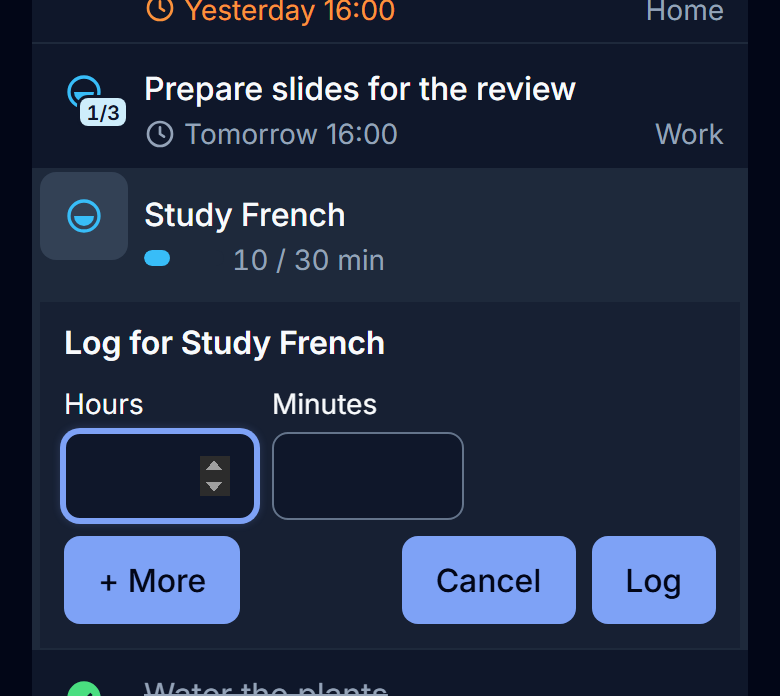
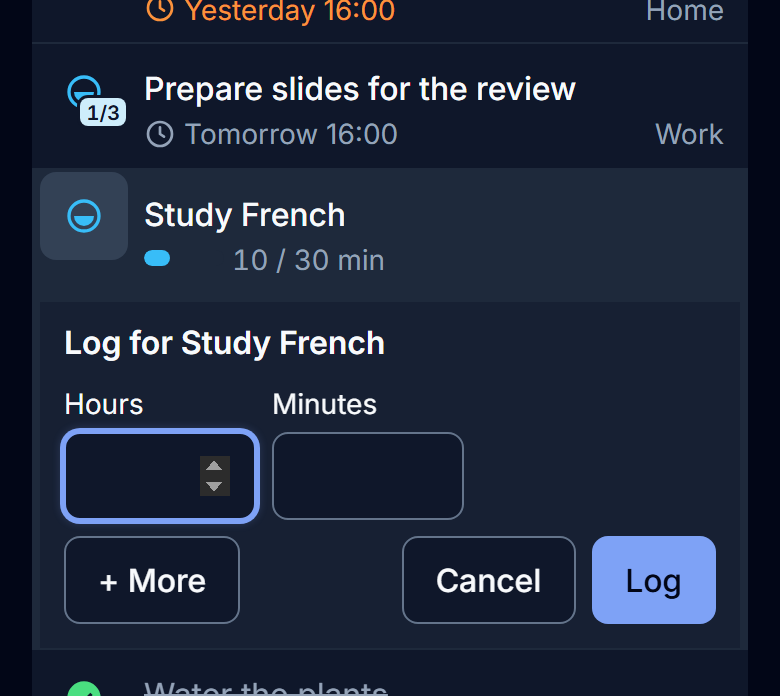
Put a shared list's owner under its description, and restyled and spaced the quick log's buttons.

Changed region(s): [[0.0615, 0.7543, 0.3077, 0.9052], [0.4923, 0.7543, 0.7385, 0.9052]]

diff --git a/tests/e2e/list.spec.js b/tests/e2e/list.spec.js
@@ -518,6 +518,41 @@ test.describe('List screen', () => {
 });
 
 
+test('the quick log fills only Log and Log anyway, and keeps its question buttons apart under the question (TSK-21)', async ({ page }) => {
+  const problems = watch(page);
+  const listId = await openList(page);
+  await page.evaluate(async (id) => {
+    const { openStore } = await import('/js/store/db.js');
+    const store = await openStore({ broadcast: true });
+    const task = await store.createTask({ description: 'Sport', 'due-time': new Date(Date.now() + 20 * 3_600_000).toISOString() }, { lists: [id] });
+    await store.updateRules(task.id, { 'goal-direction': 'at-least', 'goal-measure': 'time', 'goal-target': 3600 });
+    store.close();
+  }, listId);
+  const row = page.locator('.list-view .task-row', { hasText: 'Sport' });
+  const quick = row.locator('.quick-log');
+  const fill = (locator) => locator.evaluate((node) => getComputedStyle(node).backgroundColor);
+  for (const viewport of [{ width: 360, height: 740 }, { width: 1280, height: 800 }]) {
+    await page.setViewportSize(viewport);
+    await row.getByRole('button', { name: /^Log time for Sport/ }).click();
+    const main = await fill(quick.getByRole('button', { name: 'Log', exact: true }));
+    for (const name of ['+ More', 'Cancel']) {
+      expect(await fill(quick.getByRole('button', { name, exact: true })), name).not.toBe(main);
+    }
+    await quick.getByLabel('Hours').fill('13');
+    await quick.getByRole('button', { name: 'Log', exact: true }).click();
+    const change = quick.getByRole('button', { name: 'Change', exact: true });
+    const anyway = quick.getByRole('button', { name: 'Log anyway' });
+    await expect(anyway).toBeVisible();
+    expect(await fill(change)).not.toBe(await fill(anyway));
+    const [question, first, second] = await Promise.all([quick.locator('.quick-log__question'), change, anyway].map((part) => part.boundingBox()));
+    expect(first.y, 'the buttons sit under the question').toBeGreaterThanOrEqual(question.y + question.height);
+    expect(second.x - (first.x + first.width), 'a gap between the buttons').toBeGreaterThanOrEqual(8);
+    await quick.getByRole('button', { name: 'Cancel', exact: true }).click();
+    await expect(quick).toHaveCount(0);
+  }
+  expect(problems).toEqual([]);
+});
+
 test('logs from a row past an at-most limit, shows the marks, and undoes the entry from the toast (TSK-4, TSK-21, TSK-22)', async ({ page }) => {
   const problems = watch(page);
   const listId = await openList(page);

diff --git a/src/js/views/quick-log.js b/src/js/views/quick-log.js
@@ -109,11 +109,11 @@ function fieldOf(doc, part, text, input) {
  * @param {Document} doc the document
  * @param {string} action the action name
  * @param {string} text the text
- * @param {string} [kind] `primary` for the main button
+ * @param {'primary'|'secondary'} kind `primary` for a button that logs, `secondary` for any other
  * @returns {HTMLButtonElement} the button
  */
-function buttonOf(doc, action, text, kind = '') {
-  const button = make(doc, 'button', `button${kind ? ` button--${kind}` : ''}`, text);
+function buttonOf(doc, action, text, kind) {
+  const button = make(doc, 'button', `button button--${kind}`, text);
   button.type = 'button';
   button.dataset.action = action;
   return button;
@@ -169,11 +169,11 @@ export function createQuickLog({ document: doc = globalThis.document, descriptio
   confirm.setAttribute('role', 'alert');
   confirm.hidden = true;
   const question = make(doc, 'p', 'quick-log__question');
-  confirm.append(question, buttonOf(doc, 'change', STRINGS.change), buttonOf(doc, 'anyway', STRINGS.anyway, 'primary'));
-  const more = buttonOf(doc, 'more', STRINGS.more);
+  confirm.append(question, buttonOf(doc, 'change', STRINGS.change, 'secondary'), buttonOf(doc, 'anyway', STRINGS.anyway, 'primary'));
+  const more = buttonOf(doc, 'more', STRINGS.more, 'secondary');
   const actions = make(doc, 'div', 'quick-log__actions');
   const log = buttonOf(doc, 'log', STRINGS.log, 'primary');
-  actions.append(more, buttonOf(doc, 'cancel', STRINGS.cancel), log);
+  actions.append(more, buttonOf(doc, 'cancel', STRINGS.cancel, 'secondary'), log);
   element.append(title, time, amountPart, check, labelPart, error, confirm, actions);
 
   /** True while a posted entry awaits the store, so no path posts a second one. */

diff --git a/tests/e2e/sharing.spec.js b/tests/e2e/sharing.spec.js
@@ -134,6 +134,23 @@ test('Share list opens the list editor at its Sharing section (SHR-1)', async ({
   await expect(page.locator('[data-section="sharing"]').getByRole('button', { name: 'Invite' })).toBeVisible();
 });
 
+test('a list shared with the user names its owner under the description, on a phone and a desktop (SHR-3)', async ({ page }) => {
+  await connect(page, {
+    lists: [list(FAMILY, 'Family', { description: 'Chores and repairs around the house', owner: SAM, role: 'viewer', sharing: [] })],
+    tasks: [task('t1', 'Plan the trip', { 'owner-id': 9 })],
+    memberships: [member(FAMILY, 't1')],
+  });
+  await open(page, `#/lists/${FAMILY}`);
+  const parts = ['.list-view__description', '.list-view__owner'].map((name) => page.locator(name));
+  for (const viewport of [{ width: 360, height: 740 }, WIDE]) {
+    await page.setViewportSize(viewport);
+    await expect(parts[1]).toHaveText('Shared by Sam Roe · Viewer');
+    const [description, owner] = await Promise.all(parts.map((part) => part.boundingBox()));
+    expect(owner.y, 'under the description').toBeGreaterThanOrEqual(description.y + description.height);
+    expect(owner.x, 'from the same edge').toBe(description.x);
+  }
+});
+
 test('a viewer sees the list read-only, without edit, move, or delete controls (SHR-3, SHR-4)', async ({ page }) => {
   await connect(page, {
     lists: [list(FAMILY, 'Family', { owner: SAM, role: 'viewer', sharing: [] })],

diff --git a/docs/design/ui-wireframes.html b/docs/design/ui-wireframes.html
@@ -749,8 +749,8 @@ function quickLogForm(o) {
     + `<div class="quick-log__part quick-log__time">${input('Hours', confirm ? '13' : '0')}${input('Minutes', confirm ? '0' : '45')}</div>`
     + '<p class="quick-log__error field__error" role="status"></p>'
     + (confirm
-      ? `<div class="quick-log__confirm" role="alert"><p class="quick-log__question">Log 13 h 0 min? That is more than 12 hours.</p>${button('Change')}${button('Log anyway', 'button--primary')}</div>`
-      : `<div class="quick-log__actions">${button('+ More')}${button('Cancel', '', 'data-wf-go="all-tasks"')}${button('Log', 'button--primary', 'data-wf-go="all-tasks/ticked"')}</div>`)
+      ? `<div class="quick-log__confirm" role="alert"><p class="quick-log__question">Log 13 h 0 min? That is more than 12 hours.</p>${button('Change', 'button--secondary')}${button('Log anyway', 'button--primary')}</div>`
+      : `<div class="quick-log__actions">${button('+ More', 'button--secondary')}${button('Cancel', 'button--secondary', 'data-wf-go="all-tasks"')}${button('Log', 'button--primary', 'data-wf-go="all-tasks/ticked"')}</div>`)
     + '</form>';
 }
 

diff --git a/tests/unit/quick-log.test.js b/tests/unit/quick-log.test.js
@@ -106,6 +106,15 @@ describe('createQuickLog', () => {
     await vi.waitFor(() => expect(submit).toHaveBeenCalledWith({ 'time-spent-seconds': 50_400 }));
   });
 
+  it('styles only Log and Log anyway as main actions, and the other buttons as secondary ones', () => {
+    const quick = open();
+    const kinds = Object.fromEntries([...quick.element.querySelectorAll('button')]
+      .map((button) => [button.dataset.action, [...button.classList].filter((name) => name.startsWith('button--'))]));
+    expect(kinds).toEqual({
+      change: ['button--secondary'], anyway: ['button--primary'], more: ['button--secondary'], cancel: ['button--secondary'], log: ['button--primary'],
+    });
+  });
+
   it('posts one entry while a request is pending, whatever the repeated Enter or Log anyway presses', async () => {
     let finish;
     submit = vi.fn(() => new Promise((done) => {

diff --git a/src/css/app-components.css b/src/css/app-components.css
@@ -584,6 +584,19 @@
   margin: 0;
 }
 
+/* The question of a long duration takes its own line, over its two buttons at the end of the next. */
+.quick-log__confirm {
+  display: flex;
+  flex-wrap: wrap;
+  gap: var(--space-2);
+  justify-content: flex-end;
+}
+
+.quick-log__question {
+  flex: 0 0 100%;
+  margin: 0;
+}
+
 .quick-log__error:empty {
   display: none;
 }

diff --git a/src/service-worker.js b/src/service-worker.js
@@ -20,7 +20,7 @@
  * of the vendored design system, it requires exactly the files that css/style.css and the app modules load.
  */
 
-const VERSION = '2026-11-28.29';
+const VERSION = '2026-11-28.30';
 const CACHE = `todos-shell-${VERSION}`;
 const PREFIX = 'todos-shell-';
 const HTML_ENTRIES = ['./', 'index.html'];

diff --git a/src/css/views.css b/src/css/views.css
@@ -1223,6 +1223,10 @@
 }
 
 /* A list shared with the user names its owner and the user's role under the description. */
+.list-view > .view-header {
+  flex-wrap: wrap;
+}
+
 .list-view__owner {
   flex: 1 1 100%;
   order: 1;

diff --git a/docs/specs/visual-style-guide.md b/docs/specs/visual-style-guide.md
@@ -287,6 +287,8 @@ App states use attributes the app sets, such as `data-status` and `aria-current`
   - `.task-row__pace` reads "behind pace" and `.task-row__failed` reads "Failed", both in `--color-danger`.
   - `.task-row__start` shows the start of an upcoming row, such as "Starts tomorrow 07:00".
   - The quick log, `.quick-log`, is a form inside the row that wraps onto its own line under the status button and text.
+    Only Log and Log anyway are `button--primary`; + More, Cancel, and Change are `button--secondary`.
+    The question of a long duration takes its own line, above its two buttons.
 
   The `.task-row__count` badge sits inside the status button on the icon's bottom-right corner, such as "2/3".
   It is `aria-hidden`, since the button's name holds the counts, in 10 px semibold tabular figures.

diff --git a/CHANGELOG.md b/CHANGELOG.md
@@ -5,6 +5,8 @@ All notable changes to this project are documented here.
 > for the versioning and changelog conventions used across projects.
 
 ## v0.7.2-pre
+- FrontEnd: Fixed the owner line of a list shared with you, which sat beside the description instead of under it.
+- FrontEnd: Made only Log and Log anyway main buttons in the quick log, and separated the long-duration question's buttons.
 - Docs: Replaced the gray wireframe images with one clickable HTML preview of every screen, using the app's stylesheet.
 - DevOps: Replaced `scripts/draw-wireframes.py` with `scripts/sync-wireframe-icons.mjs`, and added tests of the wireframe page.
 - FrontEnd: Added links to app screens, status icons, and screenshots to the Welcome page, tutorial, and FAQ.

diff --git a/docs/specs/ui-design.md b/docs/specs/ui-design.md
@@ -401,6 +401,7 @@ Wireframe: [Quick log](../design/ui-wireframes.html#quick-log).
 - "+ More" reveals the other fields: Time spent, Amount, Check, and Label; one entry may hold any mix of them.
 - Log posts one `log` event and closes the pop-up; Cancel and Escape close it without a change.
   Focus then returns to the status button.
+- **[Decided]** Only Log and Log anyway look like main actions; + More, Cancel, and Change are secondary buttons.
 - **[Decided]** A duration above 12 hours asks in place first, as ADR-0006 asks of clients.
   The question reads "Log 14 h 0 min? That is more than 12 hours.", with Change and Log anyway.
 - Each log shows an Undo toast, such as "Logged 45 min on Sport."; Undo posts `undo-log` of that entry.
